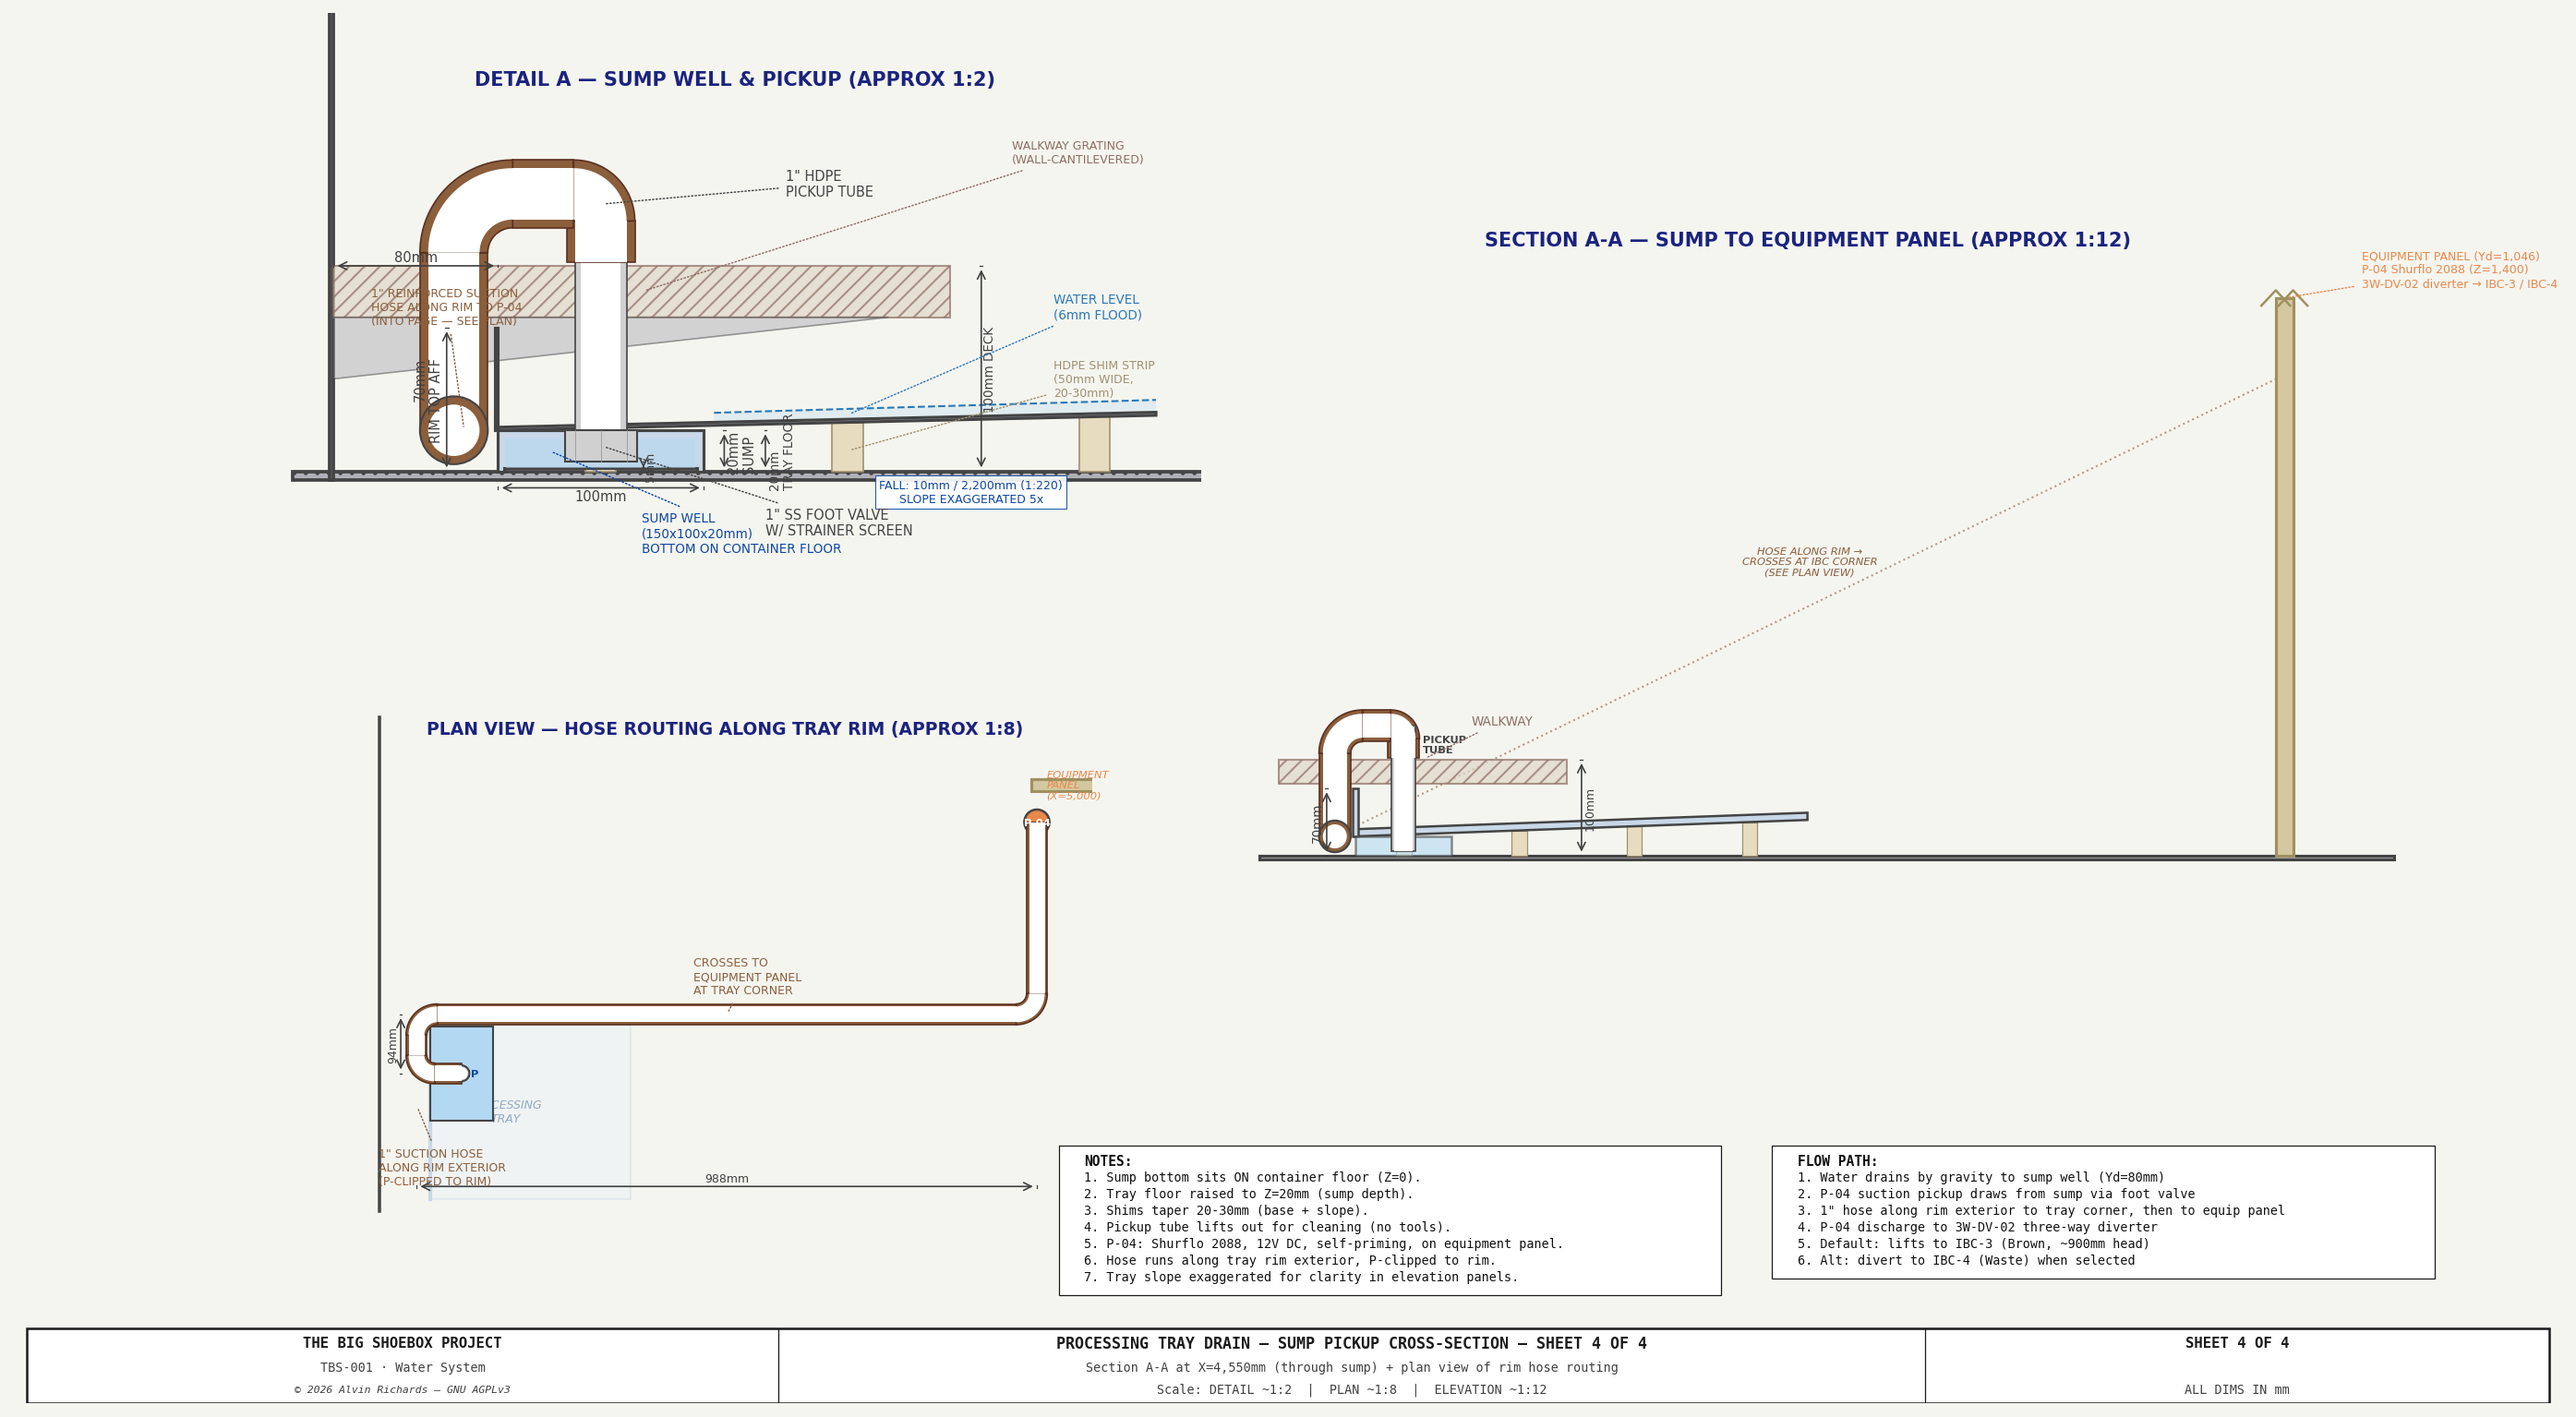
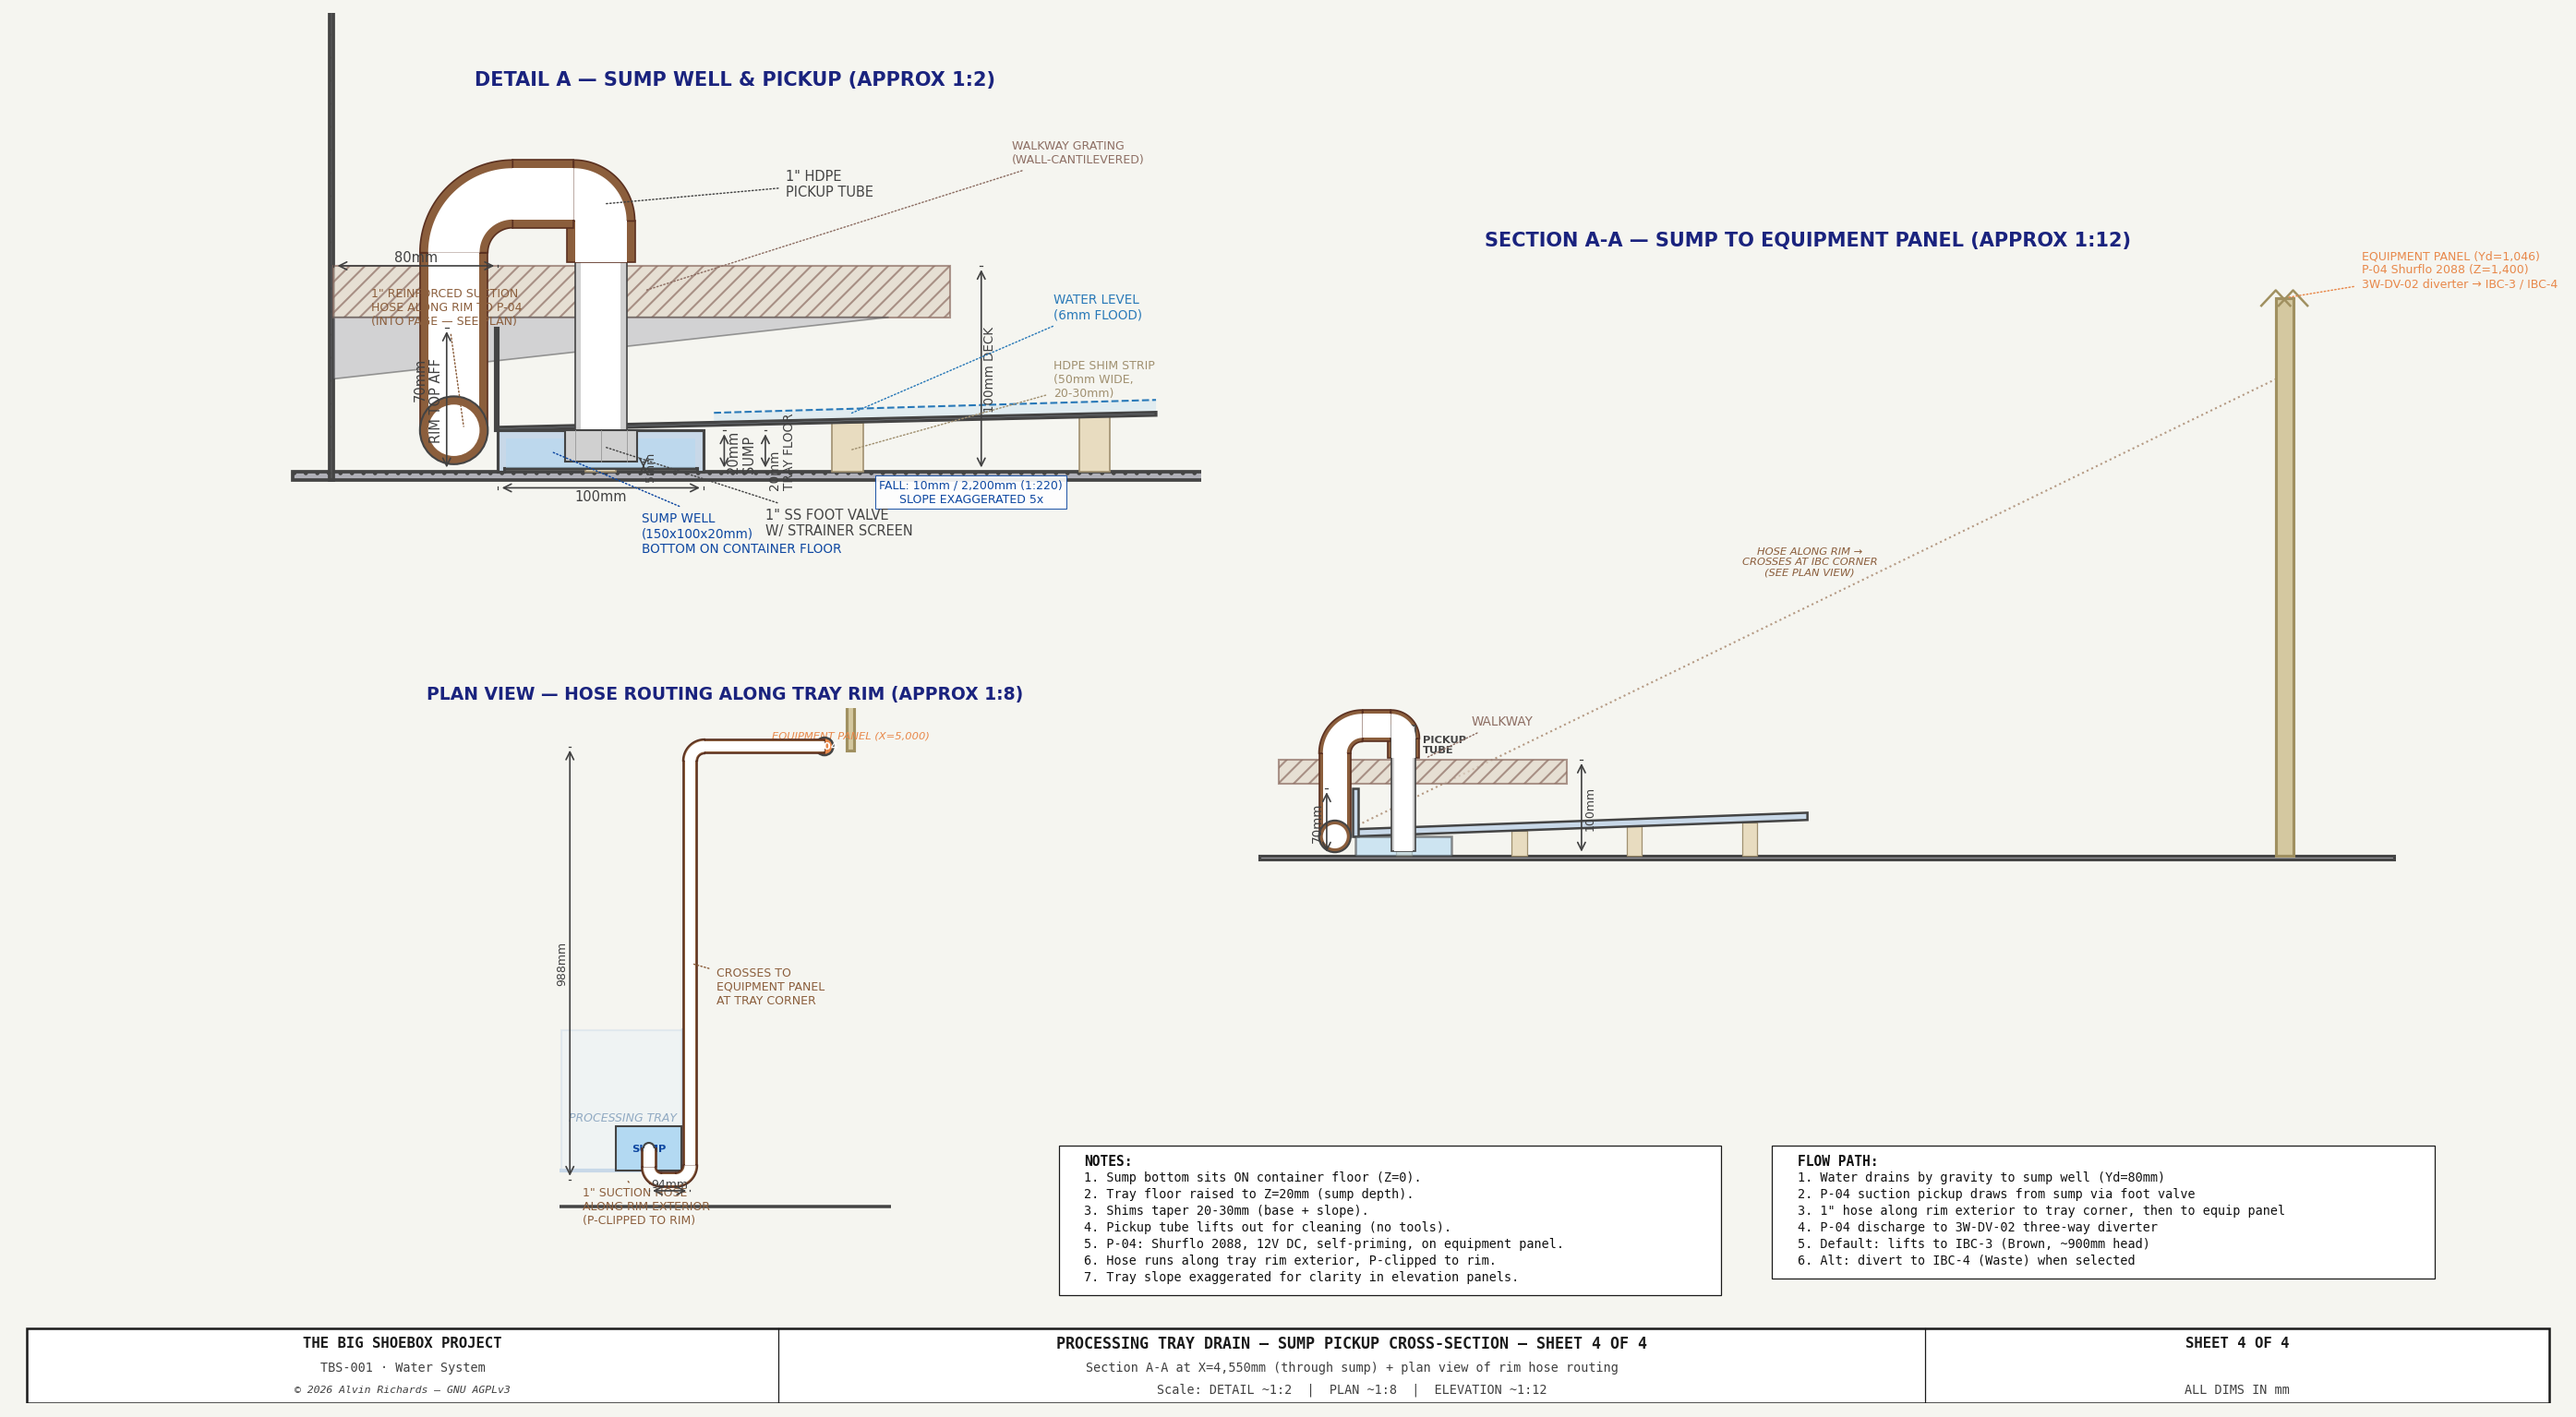
Water system sheet 4: reorient plan view to standard X-horizontal/Yd-vertical layout

Changed region(s): [[0.1559, 0.6736, 0.4054, 0.8573], [0.1559, 0.4593, 0.4054, 0.5511], [0.3742, 0.5205, 0.4366, 0.5818]]

diff --git a/generate_water_system.py b/generate_water_system.py
@@ -1550,98 +1550,100 @@ leader(ax4b, sb_y(WALKWAY_W/2), sb_z(WK_DECK_H),
 
 # ═════════════════════════════════════════════════════════════════════════════
 # PANEL C — PLAN VIEW: HOSE ROUTING ALONG TRAY RIM (~1:8)
-# Looking down. Yd horizontal (wall at left, panel at right).
-# X vertical (lower X at bottom, higher X at top).
-# Shows hose along near rim exterior, around tray corner, to equipment panel.
+# Looking down (standard plan orientation matching floorplan/IBC sheets):
+#   Horizontal = X (left=cargo door, right=sealed end)
+#   Vertical   = Yd (bottom=near wall/pinhole, top=far wall)
+# Sump at bottom-right, pipe travels north to equipment panel.
 # ═════════════════════════════════════════════════════════════════════════════
 SC_C = 8.0   # mm per drawing unit
-OC_H = 1.0   # horizontal offset (Yd=0 position)
-OC_V = 1.5   # vertical offset (X baseline)
 
 SUMP_X = PROC_TRAY_DRAIN_X   # 4,550mm
 TRAY_X_R = PROC_TRAY_X_R     # 4,629mm
 IBC_X = IBC_COL_X             # 4,674mm
 EP_X = EQPANEL_X              # 5,000mm — equipment panel face X
 EP_W = EQPANEL_W              # 148mm — total X footprint (panel + protrusion)
-X_VIEW_BOT = 4350
-X_VIEW_TOP = EP_X + EQPANEL_T + 80  # ~5,098mm — past panel back face
-YD_VIEW_L = -30
-YD_VIEW_R = 1130
 
-def sc_yd_c(yd_mm):
-    return OC_H + (yd_mm - YD_VIEW_L) / SC_C
+X_VIEW_L = 4350
+X_VIEW_R = EP_X + EQPANEL_T + 80   # ~5,098mm
+YD_VIEW_BOT = -30
+YD_VIEW_TOP = 1130
 
-def sc_x_c(x_mm):
-    return OC_V + (x_mm - X_VIEW_BOT) / SC_C
+OC_X = 1.0   # screen offset for X=X_VIEW_L
+OC_Y = 1.5   # screen offset for Yd=YD_VIEW_BOT
 
-ax4c.set_xlim(sc_yd_c(YD_VIEW_L) - 0.5, sc_yd_c(YD_VIEW_R) + 0.5)
-ax4c.set_ylim(sc_x_c(X_VIEW_BOT - 30) - 0.5, sc_x_c(X_VIEW_TOP + 30) + 0.5)
+def pc_x(x_mm):
+    return OC_X + (x_mm - X_VIEW_L) / SC_C
+
+def pc_yd(yd_mm):
+    return OC_Y + (yd_mm - YD_VIEW_BOT) / SC_C
+
+ax4c.set_xlim(pc_x(X_VIEW_L) - 0.5, pc_x(X_VIEW_R) + 0.5)
+ax4c.set_ylim(pc_yd(YD_VIEW_BOT) - 0.5, pc_yd(YD_VIEW_TOP) + 0.5)
 
 # Panel C title
-ax4c.text(sc_yd_c((YD_VIEW_L + YD_VIEW_R) / 2), sc_x_c(X_VIEW_TOP + 15),
+ax4c.text(pc_x((X_VIEW_L + X_VIEW_R) / 2), pc_yd(YD_VIEW_TOP + 15),
           "PLAN VIEW — HOSE ROUTING ALONG TRAY RIM (APPROX 1:8)",
-          ha="center", va="top", fontsize=9, fontweight="bold",
+          ha="center", va="bottom", fontsize=9, fontweight="bold",
           color="#1A237E", zorder=10)
 
-# ── Container wall (Yd=0, vertical line at left) ───────────────────────────
-ax4c.add_patch(plt.Rectangle((sc_yd_c(-WALL_T), sc_x_c(X_VIEW_BOT - 20)),
-              WALL_T / SC_C, (X_VIEW_TOP - X_VIEW_BOT + 40) / SC_C,
+# ── Container near wall (Yd=0, horizontal line at bottom) ─────────────────
+ax4c.add_patch(plt.Rectangle((pc_x(X_VIEW_L - 20), pc_yd(-WALL_T)),
+              (X_VIEW_R - X_VIEW_L + 40) / SC_C, WALL_T / SC_C,
               fc="#B0B0B8", ec=C_FRAME, lw=1.2, zorder=2, hatch=".."))
 
 # ── Tray outline (partial) ─────────────────────────────────────────────────
-tray_x_l_vis = max(PROC_TRAY_X_L, X_VIEW_BOT)
-ax4c.add_patch(plt.Rectangle((sc_yd_c(tray_yd_near), sc_x_c(tray_x_l_vis)),
-              (400 - tray_yd_near) / SC_C,
+tray_x_l_vis = max(PROC_TRAY_X_L, X_VIEW_L)
+ax4c.add_patch(plt.Rectangle((pc_x(tray_x_l_vis), pc_yd(tray_yd_near)),
               (TRAY_X_R - tray_x_l_vis) / SC_C,
+              (400 - tray_yd_near) / SC_C,
               fc="#E8F0F8", ec="#C8D8E8", lw=1.0, zorder=2, alpha=0.4))
-ax4c.text(sc_yd_c(200), sc_x_c((tray_x_l_vis + TRAY_X_R) / 2),
-          "PROCESSING\nTRAY", ha="center", va="center",
+ax4c.text(pc_x((tray_x_l_vis + TRAY_X_R) / 2), pc_yd(200),
+          "PROCESSING TRAY", ha="center", va="center",
           fontsize=6, color="#6A8CAF", style="italic", alpha=0.7, zorder=3)
 
-# Near rim line (Yd=80, runs along X)
-ax4c.plot([sc_yd_c(tray_yd_near), sc_yd_c(tray_yd_near)],
-         [sc_x_c(tray_x_l_vis), sc_x_c(TRAY_X_R)],
+# Near rim line (Yd=80, runs along X — horizontal)
+ax4c.plot([pc_x(tray_x_l_vis), pc_x(TRAY_X_R)],
+         [pc_yd(tray_yd_near), pc_yd(tray_yd_near)],
          color="#C8D8E8", lw=2.0, zorder=4)
 
-# Right rim line (X=4,629, runs along Yd)
-ax4c.plot([sc_yd_c(tray_yd_near), sc_yd_c(400)],
-         [sc_x_c(TRAY_X_R), sc_x_c(TRAY_X_R)],
+# Right rim line (X=4,629, runs along Yd — vertical)
+ax4c.plot([pc_x(TRAY_X_R), pc_x(TRAY_X_R)],
+         [pc_yd(tray_yd_near), pc_yd(400)],
          color="#C8D8E8", lw=2.0, zorder=4)
 
 # ── Sump (small rectangle inside tray at near rim) ─────────────────────────
 ax4c.add_patch(plt.Rectangle(
-    (sc_yd_c(PROC_TRAY_DRAIN_YD), sc_x_c(SUMP_X - PROC_TRAY_SUMP_W / 2)),
-    PROC_TRAY_SUMP_D / SC_C, PROC_TRAY_SUMP_W / SC_C,
+    (pc_x(SUMP_X - PROC_TRAY_SUMP_W / 2), pc_yd(PROC_TRAY_DRAIN_YD)),
+    PROC_TRAY_SUMP_W / SC_C, PROC_TRAY_SUMP_D / SC_C,
     fc="#B3D9F2", ec=C_FRAME, lw=1.0, zorder=5))
-ax4c.text(sc_yd_c(PROC_TRAY_DRAIN_YD + PROC_TRAY_SUMP_D / 2),
-          sc_x_c(SUMP_X),
+ax4c.text(pc_x(SUMP_X), pc_yd(PROC_TRAY_DRAIN_YD + PROC_TRAY_SUMP_D / 2),
           "SUMP", ha="center", va="center", fontsize=5.5,
           fontweight="bold", color="#0D47A1", zorder=6)
 
 # ── Pickup tube end-on (vertical tube seen from above) ─────────────────────
 tube_r_c = TUBE_OD / 2 / SC_C
 tube_wall_c = TUBE_WALL / SC_C
-draw_pipe_end(ax4c, sc_yd_c(tube_yd), sc_x_c(SUMP_X),
+draw_pipe_end(ax4c, pc_x(SUMP_X), pc_yd(tube_yd),
               tube_r_c, tube_wall_c,
               fc="#D0D0D0", ec=C_FRAME, bore_fc="white", zorder=7)
 
 # ── Equipment panel (spans corridor at X=5000, perpendicular to sealed end) ──
 ax4c.add_patch(plt.Rectangle(
-    (sc_yd_c(CORRIDOR_YD_NEAR - 9), sc_x_c(EP_X)),
-    270 / SC_C, EQPANEL_T / SC_C,
+    (pc_x(EP_X), pc_yd(CORRIDOR_YD_NEAR - 9)),
+    EQPANEL_T / SC_C, 270 / SC_C,
     fc="#D4C8A0", ec="#A09060", lw=1.5, zorder=3))
-ax4c.text(sc_yd_c(CORRIDOR_YD_NEAR + 15), sc_x_c(EP_X + EQPANEL_T / 2),
-          "EQUIPMENT\nPANEL\n(X=5,000)",
-          ha="left", va="center", fontsize=5.5, color=C_PUMP,
+ax4c.text(pc_x(EP_X + EQPANEL_T / 2), pc_yd(CORRIDOR_YD_NEAR + 15),
+          "EQUIPMENT PANEL (X=5,000)",
+          ha="center", va="bottom", fontsize=5.5, color=C_PUMP,
           style="italic", zorder=4)
 
 # P-04 on equipment panel — pump protrudes from panel face toward lower X
 P04_PLAN_X = EP_X - PUMP_D / 2
 ax4c.add_patch(plt.Circle(
-    (sc_yd_c(CORRIDOR_YD_NEAR), sc_x_c(P04_PLAN_X)),
+    (pc_x(P04_PLAN_X), pc_yd(CORRIDOR_YD_NEAR)),
     20 / SC_C,
     fc="#E8884A", ec=C_FRAME, lw=1.2, zorder=6))
-ax4c.text(sc_yd_c(CORRIDOR_YD_NEAR), sc_x_c(P04_PLAN_X),
+ax4c.text(pc_x(P04_PLAN_X), pc_yd(CORRIDOR_YD_NEAR),
           "P-04", ha="center", va="center", fontsize=5.5,
           fontweight="bold", color="white", zorder=7)
 
@@ -1649,35 +1651,35 @@ ax4c.text(sc_yd_c(CORRIDOR_YD_NEAR), sc_x_c(P04_PLAN_X),
 RIM_EXT_YD_C = tray_yd_near - HOSE_OD / 2 - 5  # ~60mm
 CORNER_X = TRAY_X_R + 15   # just past tray right edge
 draw_pipe_path(ax4c,
-               [tube_yd, RIM_EXT_YD_C, RIM_EXT_YD_C, CORRIDOR_YD_NEAR, CORRIDOR_YD_NEAR],
                [SUMP_X, SUMP_X, CORNER_X, CORNER_X, P04_PLAN_X],
-               HOSE_OD, HOSE_WALL, sc_yd_c, sc_x_c,
+               [tube_yd, RIM_EXT_YD_C, RIM_EXT_YD_C, CORRIDOR_YD_NEAR, CORRIDOR_YD_NEAR],
+               HOSE_OD, HOSE_WALL, pc_x, pc_yd,
                fc=C_BROWN, ec="#5A3020", zorder=6)
 
-# P-clip marks along rim run (small ticks)
+# P-clip marks along rim run (small ticks — horizontal marks along vertical pipe)
 for clip_x in range(SUMP_X, CORNER_X, 60):
-    ax4c.plot([sc_yd_c(RIM_EXT_YD_C - 8), sc_yd_c(RIM_EXT_YD_C + 8)],
-             [sc_x_c(clip_x), sc_x_c(clip_x)],
+    ax4c.plot([pc_x(clip_x), pc_x(clip_x)],
+             [pc_yd(RIM_EXT_YD_C - 8), pc_yd(RIM_EXT_YD_C + 8)],
              color="#666666", lw=0.6, zorder=5)
 
 # ── Labels ──────────────────────────────────────────────────────────────────
-leader(ax4c, sc_yd_c(RIM_EXT_YD_C), sc_x_c(SUMP_X - 50),
-       sc_yd_c(RIM_EXT_YD_C - 60), sc_x_c(X_VIEW_BOT + 50),
+leader(ax4c, pc_x(SUMP_X - 50), pc_yd(RIM_EXT_YD_C),
+       pc_x(X_VIEW_L + 50), pc_yd(RIM_EXT_YD_C - 60),
        "1\" SUCTION HOSE\nALONG RIM EXTERIOR\n(P-CLIPPED TO RIM)", fs=6, color=C_BROWN)
 
-leader(ax4c, sc_yd_c((RIM_EXT_YD_C + CORRIDOR_YD_NEAR) / 2), sc_x_c(CORNER_X),
-       sc_yd_c(500), sc_x_c(CORNER_X + 60),
+leader(ax4c, pc_x(CORNER_X), pc_yd((RIM_EXT_YD_C + CORRIDOR_YD_NEAR) / 2),
+       pc_x(CORNER_X + 60), pc_yd(500),
        "CROSSES TO\nEQUIPMENT PANEL\nAT TRAY CORNER", fs=6, color=C_BROWN)
 
 # ── Dimensions ──────────────────────────────────────────────────────────────
-# Rim-to-panel Yd distance
-draw_dim_h(ax4c, sc_yd_c(RIM_EXT_YD_C), sc_yd_c(CORRIDOR_YD_NEAR),
-           sc_x_c(X_VIEW_BOT + 20),
+# Rim-to-panel Yd distance (vertical dim)
+draw_dim_v(ax4c, pc_x(X_VIEW_L + 20), pc_yd(RIM_EXT_YD_C), pc_yd(CORRIDOR_YD_NEAR),
            f"{CORRIDOR_YD_NEAR - RIM_EXT_YD_C:.0f}mm", offset=0.8, fs=6)
 
-# Hose run along rim (X distance)
-draw_dim_v(ax4c, sc_yd_c(RIM_EXT_YD_C - 25), sc_x_c(SUMP_X), sc_x_c(CORNER_X),
-           f"{CORNER_X - SUMP_X}mm", offset=0.5, fs=6, right=False)
+# Hose run along rim (X distance — horizontal dim)
+draw_dim_h(ax4c, pc_x(SUMP_X), pc_x(CORNER_X),
+           pc_yd(RIM_EXT_YD_C - 25),
+           f"{CORNER_X - SUMP_X}mm", offset=0.5, fs=6)
 
 # ── Notes axes (full-width strip above title block) ─────────────────────────
 ax4_notes = fig4.add_axes([0.04, 0.06, 0.92, 0.10])
